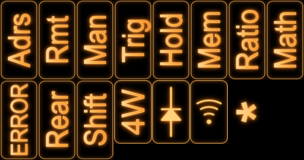
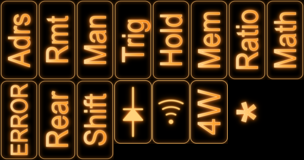
more display testing

Changed region(s): [[0.3849, 0.5312, 0.7401, 0.875]]

diff --git a/src/display.c b/src/display.c
@@ -29,6 +29,7 @@
 #include "lcd-pico.h"
 #include "lt7680.h"
 #include "st7701.h"
+#include "decoder_34401a.h"
 #include LCDPICO_THEME_HEADER
 
 
@@ -71,7 +72,7 @@ static uint8_t display_tile_map[256];
 static struct display_cell_state display_state[DISPLAY_COLS];
 
 
-static int draw_cb(PNGDRAW *d)
+static int png_decode_cb(PNGDRAW *d)
 {
 	uint16_t *color = d->pUser;
 	int fifo = 0;
@@ -131,7 +132,7 @@ vmem_image_t* load_image_to_vmem(const char *buf, uint32_t len, uint16_t mono_co
 		return NULL;
 	}
 
-	res = PNG_openRAM(png, (uint8_t*)buf, len, draw_cb);
+	res = PNG_openRAM(png, (uint8_t*)buf, len, png_decode_cb);
 	if (res == 0) {
 		w = PNG_getWidth(png);
 		h = PNG_getHeight(png);
@@ -318,15 +319,17 @@ static void update_display(struct display_cell_state newstate[], uint32_t ind_fl
 	}
 
 	/* Set indicator "lights" */
-	for (int i = 0; i < DISPLAY_IND_COUNT; i++) {
+	for (int i = 0; i < 16; i++) {
+		int ind = lcd_indicator_map[i];
 		uint8_t tile = display_indicators[INDICATOR_BLANK].tile;
-		const struct lcd_indicator *d = &display_indicators[i];
+		const struct lcd_indicator *d = &display_indicators[ind];
 
-		if (i == INDICATOR_BLANK)
+		if (ind == INDICATOR_BLANK)
 			continue;
 
-		if (ind_flags & (1 << i))
+		if (ind_flags & (1 << i)) {
 			tile = d->tile;
+		}
 
 		uint16_t y = d->y;
 		uint16_t h = d->h > 0 ? d->h : DISPLAY_IND_H;
@@ -369,16 +372,31 @@ void display_status(const struct fanpico_state *state,
 	if (!display_active)
 		return;
 
+	int d = 0;
 	for(int i = 0; i < DISPLAY_COLS; i++) {
-		disp[i].c = '0' + i + (pos % 96) - 24;
+		disp[i].c = dmm_main[d++];
+
 		disp[i].flags = 0;
-		if (i == 2) disp[i].flags = (1 << OVERLAY_PERIOD);
-		if (i == 4) disp[i].flags = (1 << OVERLAY_COMMA);
-		if (i == 6) disp[i].flags = (1 << OVERLAY_PERIOD) | (1 << OVERLAY_DOT);
-		//printf("%c",disp[i].c);
+		switch (dmm_main[d]) {
+		case '.':
+			disp[i].flags = (1 << OVERLAY_PERIOD);
+			d++;
+			break;
+		case ',':
+			disp[i].flags = (1 << OVERLAY_COMMA);
+			d++;
+			break;
+		case ':':
+			disp[i].flags = (1 << OVERLAY_PERIOD) | (1 << OVERLAY_DOT);
+			d++;
+			break;
+		}
+
+		if (d >= 16)
+			break;
 	}
 	//printf("\n");
-	update_display(disp, ind, true);
+	update_display(disp, dmm_ann_state, true);
 	pos++;
 #if 0
 	lt7680_bte_memory_copy(0, w, 50, 0,

diff --git a/src/img/240x960/nixie-theme.h b/src/img/240x960/nixie-theme.h
@@ -39,11 +39,30 @@ enum lcd_indicators_types {
  	INDICATOR_ERROR  = 8,
 	INDICATOR_REAR   = 9,
 	INDICATOR_SHIFT  = 10,
-	INDICATOR_4W     = 11,
-	INDICATOR_DIODE  = 12,
-	INDICATOR_CONT   = 13,
-	INDICATOR_STAR   = 14,
+	INDICATOR_DIODE  = 11,
+	INDICATOR_CONT   = 12,
+	INDICATOR_4W     = 13,
+	INDICATOR_SMP    = 14,
 	INDICATOR_BLANK  = 15
+};
+
+const int8_t lcd_indicator_map[16] = {
+	INDICATOR_SMP,
+	INDICATOR_ADRS,
+	INDICATOR_RMT,
+	INDICATOR_MAN,
+	INDICATOR_TRIG,
+	INDICATOR_HOLD,
+	INDICATOR_MEM,
+	INDICATOR_RATIO,
+	INDICATOR_MATH,
+	INDICATOR_ERROR,
+	INDICATOR_REAR,
+	INDICATOR_SHIFT,
+	INDICATOR_DIODE,
+	INDICATOR_CONT,
+	INDICATOR_4W,
+	INDICATOR_BLANK,
 };
 
 struct lcd_indicator {

diff --git a/src/decoder_34401a.h b/src/decoder_34401a.h
@@ -9,6 +9,26 @@
 extern "C" {
 #endif
 
+
+typedef enum dmm_annunciators {
+	ANN_SMP   = 0,
+	ANN_ADRS  = 1,
+	ANN_RMT   = 2,
+	ANN_MAN   = 3,
+	ANN_TRIG  = 4,
+	ANN_HOLD  = 5,
+	ANN_MEM   = 6,
+	ANN_RATIO = 7,
+	ANN_MATH  = 8,
+	ANN_ERROR = 9,
+	ANN_REAR  = 10,
+	ANN_SHIFT = 11,
+	ANN_DIODE = 12,
+	ANN_CONT  = 13,
+	ANN_4WIRE = 14,
+} dmm_annunciators_t;
+
+
 // ===== Extracted "display model" =====
 extern volatile char     dmm_main[16];          // null-terminated
 extern volatile uint16_t dmm_ann_state;         // annunciator bitfield (incl shift)

diff --git a/themes/nixie/gen_indicator_png.py b/themes/nixie/gen_indicator_png.py
@@ -13,7 +13,7 @@ OUT = "./png"
 
 
 WORDS = ["Adrs", "Rmt", "Man", "Trig", "Hold", "Mem", "Ratio", "Math", "ERROR", "Rear", "Shift"]
-SYMBOLS = [ "4W", "Diode", "Continuity", "Asterisk" ]
+SYMBOLS = [ "Diode", "Continuity", "4W", "Asterisk" ]
 
 
 
